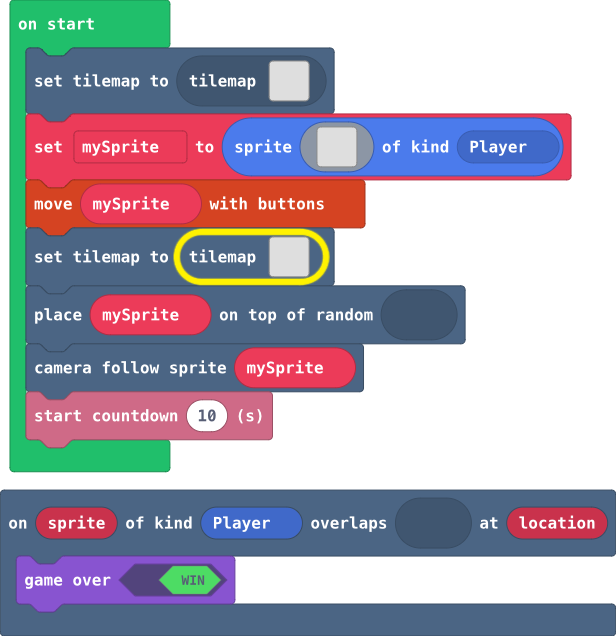
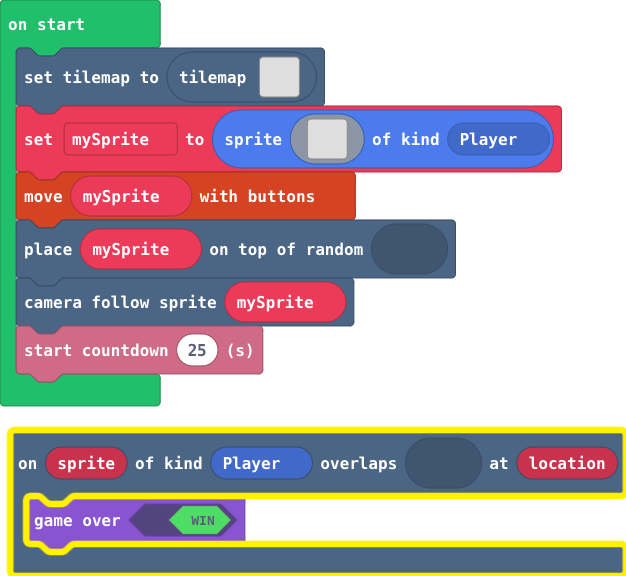
Update main.blocks, main.ts, tilemap.g.jres, tilemap.g.ts

diff --git a/tilemap.g.ts b/tilemap.g.ts
@@ -44,24 +44,24 @@ namespace myTiles {
 . . . . . . . . . . . . . . . . 
 `, [myTiles.transparency16], TileScale.Sixteen);
             case "level2":
-            case "level2":return tiles.createTilemap(hex`1000100001080105010501010101010501010501010301050105010101010105010105010103010501050505050501050505050101030105010501010105050501010101010301050505050505010105010101010103010501050101050101050101010101030105010505050505050505050505010301050101010105050105010105010102050405010101010501050101050101010501050101010105010505010501010105010501010101050101050105010101050105010505050501010501050101010505050505010105010505010501050505010101050101050501010105010505050101010501010501010101060701010505050505010105010101010101`, img`
-2 . 2 . 2 . 2 2 2 2 2 . 2 2 . 2 
-2 . 2 . 2 . 2 2 2 2 2 . 2 2 . 2 
-2 . 2 . 2 . . . . . 2 . . . . 2 
-2 . 2 . 2 . 2 2 2 . . . 2 2 2 2 
-2 . 2 . . . . . . 2 2 . 2 2 2 2 
-2 . 2 . 2 . 2 2 . 2 2 . 2 2 2 2 
-2 . 2 . 2 . . . . . . . . . . . 
-2 . 2 . 2 2 2 2 . . 2 . 2 2 . 2 
-2 . . . . 2 2 2 2 . 2 . 2 2 . 2 
-2 2 . 2 . 2 2 2 2 . 2 . . 2 . 2 
-2 2 . 2 . 2 2 2 2 . 2 2 . 2 . 2 
-2 2 . 2 . 2 . . . . 2 2 . 2 . 2 
-2 2 . . . . . 2 2 . 2 . . 2 . 2 
-. . . 2 2 2 . 2 2 . . 2 2 2 . 2 
-. . . 2 2 2 . 2 2 . 2 2 2 2 . . 
-2 2 . . . . . 2 2 . 2 2 2 2 2 2 
-`, [myTiles.transparency16,sprites.castle.tileGrass2,sprites.castle.tilePath7,sprites.castle.tilePath4,sprites.castle.tilePath8,sprites.castle.tilePath5,sprites.castle.tileDarkGrass2,sprites.dungeon.collectibleInsignia,sprites.castle.rock0], TileScale.Sixteen);
+            case "level2":return tiles.createTilemap(hex`1000100001030100010001010101010001010001010001000100010101010100010100010100010001000000000001000000000101000100010001010100000001010101010001000000000000010100010101010100000001000101000101000101010101000000010000000000000000000000010001000101010100000100010100010100000000010101010001000101000101010001000101010100010000010001010100010001010101000101000100010101000100010000000001010001000101010000000000010100010000010001000000010101000101000001010100010000000101010001010001010101000201010000000000010100010101010101`, img`
+. 2 . 2 . 2 . . . . . 2 . . 2 . 
+. 2 . 2 . 2 . . . . . 2 . . 2 . 
+. 2 . 2 . 2 2 2 2 2 . 2 2 2 2 . 
+. 2 . 2 . 2 . . . 2 2 2 . . . . 
+. 2 . 2 2 2 2 2 2 . . 2 . . . . 
+. 2 2 2 . 2 . . 2 . . 2 . . . . 
+. 2 2 2 . 2 2 2 2 2 2 2 2 2 2 2 
+. 2 . 2 . . . . 2 2 . 2 . . 2 . 
+. 2 2 2 2 . . . . 2 . 2 . . 2 . 
+. . 2 . 2 . . . . 2 . 2 2 . 2 . 
+. . 2 . 2 . . . . 2 . . 2 . 2 . 
+. . 2 . 2 . 2 2 2 2 . . 2 . 2 . 
+. . 2 2 2 2 2 2 . 2 . 2 2 . 2 . 
+2 2 2 2 . . 2 . . 2 2 2 . . 2 . 
+2 2 2 . . . 2 2 . 2 2 . . . 2 2 
+. . 2 2 2 2 2 . . 2 . . . . . . 
+`, [myTiles.transparency16,sprites.castle.tileGrass2,sprites.dungeon.collectibleInsignia,sprites.castle.rock0], TileScale.Sixteen);
         }
         return null;
     })

diff --git a/main.ts b/main.ts
@@ -1,7 +1,7 @@
 scene.onOverlapTile(SpriteKind.Player, sprites.dungeon.collectibleInsignia, function (sprite, location) {
     game.gameOver(true)
 })
-tiles.setCurrentTilemap(tilemap`level1`)
+tiles.setCurrentTilemap(tilemap`level2`)
 let mySprite = sprites.create(img`
     ................eeeeeeee................
     ...............eeeeeeeeee...............
@@ -45,7 +45,6 @@ let mySprite = sprites.create(img`
     .......................................d
     `, SpriteKind.Player)
 controller.moveSprite(mySprite)
-tiles.setCurrentTilemap(tilemap`level2`)
 tiles.placeOnRandomTile(mySprite, sprites.castle.rock0)
 scene.cameraFollowSprite(mySprite)
-info.startCountdown(10)
+info.startCountdown(25)
